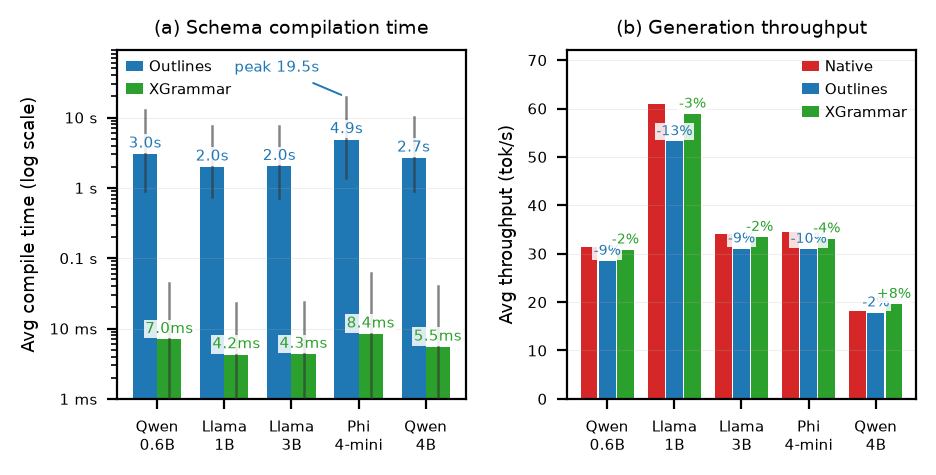
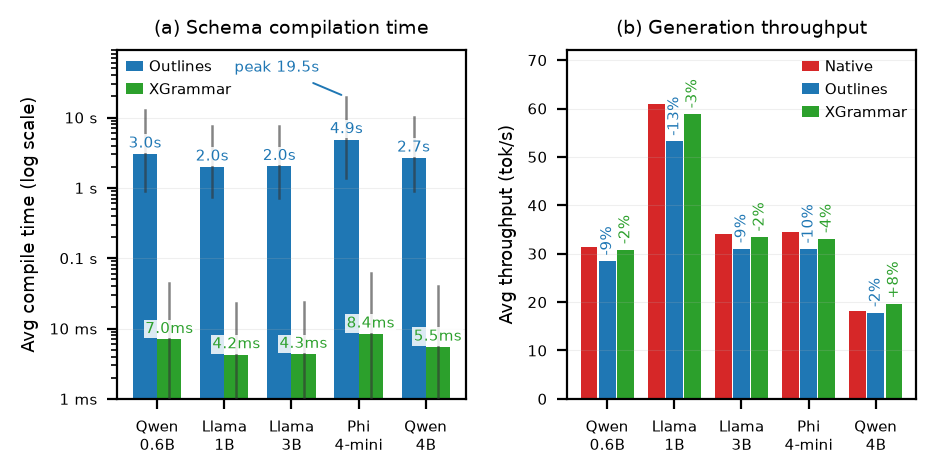
Rotate fig4(b) delta labels vertical — horizontal text spilled onto the taller native bar face

diff --git a/scripts/regenerate_overhead.py b/scripts/regenerate_overhead.py
@@ -140,15 +140,14 @@ ax2.bar(x, tp_ol, w3 * 0.92, color=COLORS["outlines"], label="Outlines")
 ax2.bar(x + w3, tp_xg, w3 * 0.92, color=COLORS["xgrammar"], label="XGrammar")
 ax2.set_ylim(0, 72)
 ax2.set_ylabel("Avg throughput (tok/s)", fontsize=6.5)
-# delta labels sit directly above their OWN bar (outlines at x, xgrammar at
-# x + w3): placing the outlines label at the native bar x-centre landed text
-# on the red bar face where it vanished (that was the third bug)
+# delta labels stand VERTICALLY above their own bar: horizontal text is wider
+# than a bar, so centered labels spilled onto the neighboring taller bar and
+# read as sunk behind it (that was the fourth bug)
 for xi, v, d, col in [(x, tp_ol, d_ol, COLORS["outlines"]),
                       (x + w3, tp_xg, d_xg, COLORS["xgrammar"])]:
     for xj, vj, dj in zip(xi, v, d):
-        ax2.annotate(f"{dj:+.0f}%", xy=(xj, vj), xytext=(0, 1), textcoords="offset points",
-                     fontsize=5.2, ha="center", va="bottom", color=col,
-                     bbox=dict(facecolor="white", edgecolor="none", pad=0.5, alpha=0.85))
+        ax2.annotate(f"{dj:+.0f}%", xy=(xj, vj), xytext=(0, 2), textcoords="offset points",
+                     fontsize=5.5, ha="center", va="bottom", color=col, rotation=90)
 ax2.legend(loc="upper right", fontsize=5.5, frameon=False, handlelength=1.1,
            handletextpad=0.4, borderaxespad=0.2)
 
